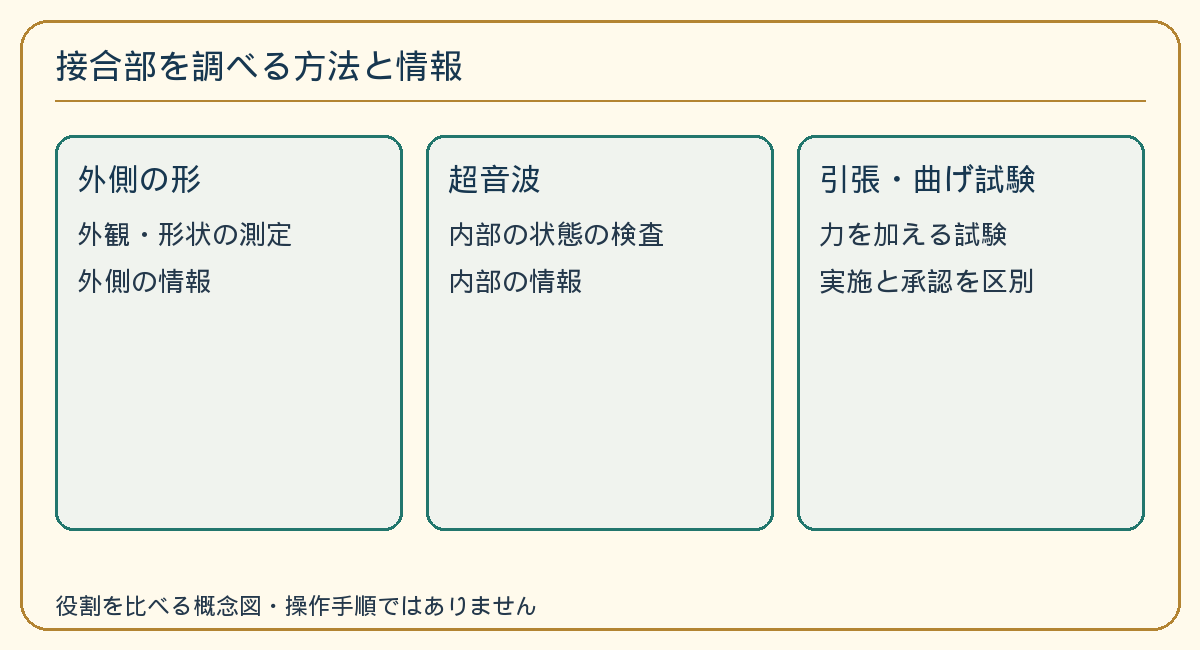
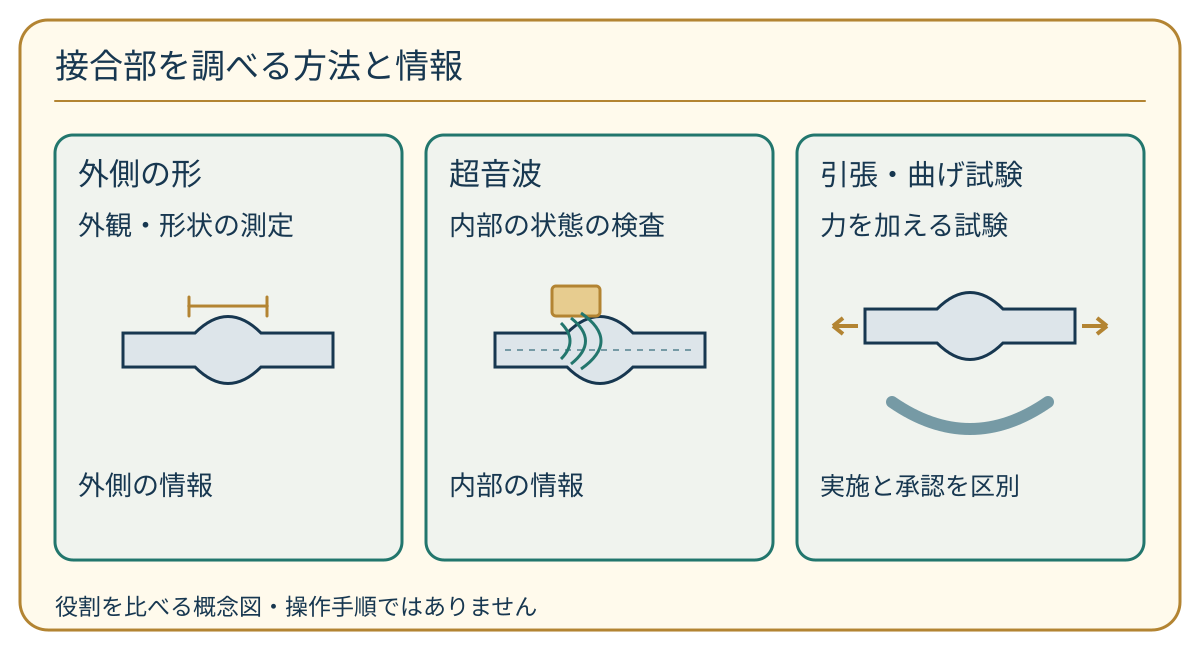
fix(kensetsu): illustrate inspection and welding support distinctions

diff --git a/scripts/kensetsu-authoring/draw-royal-differential-group02.py b/scripts/kensetsu-authoring/draw-royal-differential-group02.py
@@ -1,0 +1,44 @@
+"""Source-bound inspection/support-tool relationships; no operating steps."""
+from pathlib import Path
+# Reuse only the established SVG helper definitions, never its image-writing calls.
+helper = Path(__file__).with_name('draw-royal-differential-group01.py').read_text()
+exec(helper.split('# Clamp:')[0])
+OUT = ROOT / 'docs/ssw-workspace/kensetsu/royal-differential-20261107/group02'
+OUT.mkdir(parents=True, exist_ok=True)
+
+def joint(cx,cy,inside=False):
+    body=f'<path d="M{cx-105} {cy-17} H{cx-33} Q{cx} {cy-50} {cx+33} {cy-17} H{cx+105} V{cy+17} H{cx+33} Q{cx} {cy+50} {cx-33} {cy+17} H{cx-105} Z" fill="#DDE5EA" stroke="#173750" stroke-width="3"/>'
+    if inside:
+        body+=f'<path d="M{cx-95} {cy} H{cx+95}" stroke="#769AA5" stroke-width="2" stroke-dasharray="6 6"/>'
+    return body
+
+b=''.join(rect(x,135,347,425) for x in [55,426,797])
+b+=text(78,185,'外側の形',31)+text(449,185,'超音波',31)+text(820,185,'引張・曲げ試験',29)
+b+=text(78,235,'外観・形状の測定')+text(449,235,'内部の状態の検査')+text(820,235,'力を加える試験')
+b+=joint(228,350)
+# Dimension endpoints refer to the external bulge only; no numerical tolerance.
+b+=line(189,306,267,306,GOLD,3)+line(189,297,189,316,GOLD,3)+line(267,297,267,316,GOLD,3)
+b+=joint(600,350,True)+rect(552,286,48,30,'#E7CC8F',GOLD,4)
+b+='<path d="M561 323 Q579 341 561 359 M571 318 Q600 341 571 364 M581 313 Q621 341 581 369" fill="none" stroke="#22766D" stroke-width="3"/>'
+b+=joint(970,326)
+b+='<path d="M858 326 H833 M833 326 L843 318 M833 326 L843 334 M1082 326 H1107 M1107 326 L1097 318 M1107 326 L1097 334" fill="none" stroke="#B38432" stroke-width="4"/>'
+b+='<path d="M892 402 Q970 456 1048 402" fill="none" stroke="#769AA5" stroke-width="12" stroke-linecap="round"/>'
+b+=text(78,495,'外側の情報')+text(449,495,'内部の情報')+text(820,495,'実施と承認を区別',25)
+save('b6','接合部を調べる方法と情報',b)
+
+b=''.join(rect(x,135,347,425) for x in [55,426,797])
+b+=text(78,185,'石筆',31)+text(449,185,'やっとこ',31)+text(820,185,'付着を抑える製品',29)
+b+=text(78,235,'材料への印')+text(449,235,'材料の保持')+text(820,235,'材料表面への対応')
+b+=rect(110,332,235,82,'#769AA5',NAVY,3)
+b+=line(150,375,285,375,'#FFFDF4',5)
+b+='<path d="M216 283 L285 356 L273 371 L201 299 Z" fill="#FFFDF4" stroke="#173750" stroke-width="3"/><path d="M273 371 L285 356 L290 378 Z" fill="#E7CC8F" stroke="#173750" stroke-width="2"/>'
+# Two pivoted arms grasp a separate workpiece; schematic, no user/heat scene.
+b+=rect(563,385,76,34,'#769AA5',NAVY,3)
+b+='<path d="M510 280 L601 348 L578 384 L578 398 M681 280 L601 348 L624 384 L624 398" fill="none" stroke="#173750" stroke-width="10" stroke-linecap="round" stroke-linejoin="round"/>'
+b+=circle(601,348,9,'#E7CC8F',NAVY,3)
+# The gold layer identifies the treated material surface, not a protective barrier.
+b+=rect(850,360,240,47,'#769AA5',NAVY,3)+line(854,357,1086,357,GOLD,7)
+b+=rect(924,276,72,47,'#F5EAD1',GOLD,5)
+b+=text(78,495,'目印を付ける')+text(449,495,'つかむ')
+b+=text(820,475,'目・呼吸の保護とは',25)+text(820,514,'別の役割',25)
+save('b7','溶接の周辺にある道具・製品',b)
